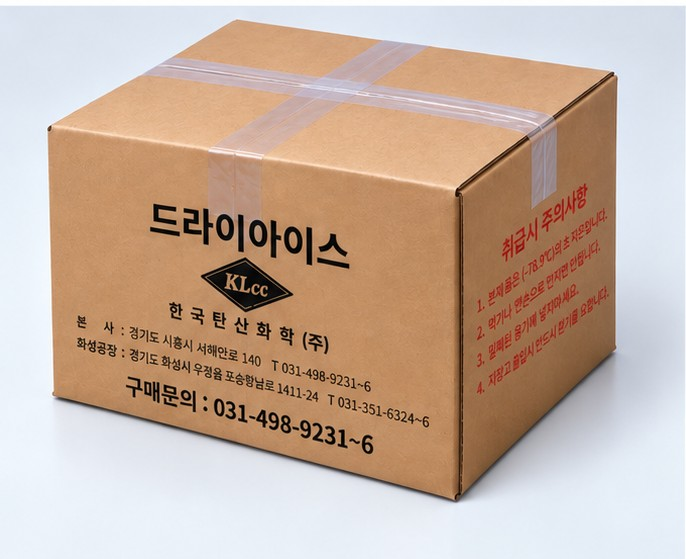
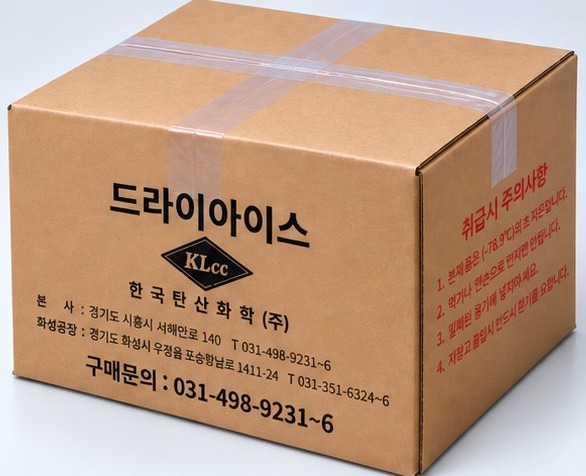
드라이아이스 블록 포장 프로세스 3번 사진: 배경 여백 제거·2번과 동일 비율(1.23)로 재크롭해 프레임에 꽉 차게 확대 (proc3.jpg?v=c)

diff --git a/products-ice.html b/products-ice.html
@@ -415,7 +415,7 @@
                 <ol class="proc4">
                   <li class="proc4__step"><div class="proc4__media"><img src="assets/images/site/icespec/proc1.jpg?v=20260911b" alt="비닐 라이너 준비" loading="lazy"></div><b><span class="proc4__n">1</span>비닐 라이너 준비</b><p>박스 안에 비닐(라이너)을 깔아줍니다.</p></li>
                   <li class="proc4__step"><div class="proc4__media"><img src="assets/images/site/icespec/proc2.jpg?v=20260911d" alt="블록 담기" loading="lazy"></div><b><span class="proc4__n">2</span>블록 담기</b><p>드라이아이스 블록을 담습니다.</p></li>
-                  <li class="proc4__step"><div class="proc4__media"><img src="assets/images/site/icespec/proc3.jpg?v=20260911b" alt="박스 포장" loading="lazy"></div><b><span class="proc4__n">3</span>박스 포장</b><p>내용물이 담긴 박스를 밀봉하여 포장합니다.</p></li>
+                  <li class="proc4__step"><div class="proc4__media"><img src="assets/images/site/icespec/proc3.jpg?v=20260911c" alt="박스 포장" loading="lazy"></div><b><span class="proc4__n">3</span>박스 포장</b><p>내용물이 담긴 박스를 밀봉하여 포장합니다.</p></li>
                   <li class="proc4__step"><div class="proc4__media"><img src="assets/images/site/icespec/proc4.jpg?v=20260911b" alt="외부 비닐 포장" loading="lazy"></div><b><span class="proc4__n">4</span>외부 비닐 포장</b><p>외부 비닐로 한 번 더 포장하여 출고합니다.</p></li>
                 </ol>
               </div>
